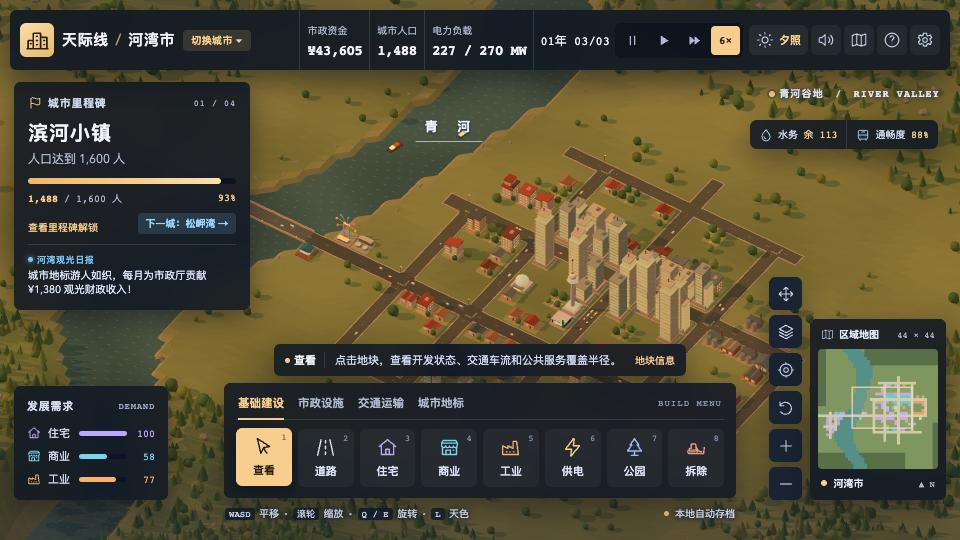
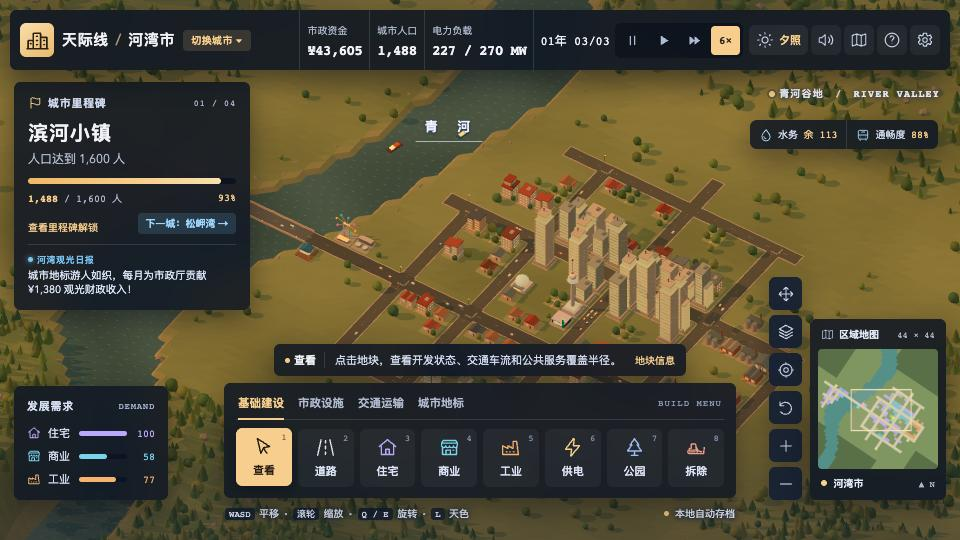
Publish 天际线 · 河湾市 to game wall

Changed region(s): [[0.8438, 0.6222, 1.0, 0.8889]]

diff --git a/riverbend-skyline/index.html b/riverbend-skyline/index.html
@@ -5956,7 +5956,7 @@ function createView(canvas) {
     rotate(delta) { angle+=delta; cameraUpdate(); },
     reset() { angle=angleHome; zoom=1; target.set(4,0,-1); cameraUpdate(); },
     center(i,j) { target.set(world(i),0,world(j)); cameraUpdate(); },
-    get focus() { return {i:grid(target.x),j:grid(target.z),angle,zoom}; },
+    get focus() { return {i:grid(target.x),j:grid(target.z),fx:target.x/TILE,fz:target.z/TILE,angle,zoom}; },
   };
 }
 
@@ -6039,8 +6039,10 @@ const speeds=[0,1,3,6];
 const labels=[...$('districts').children];
 const map=$('minimap');
 const mapContext=map.getContext('2d');
+const MAP_PAD=12;
+const MAP_SPAN=SIZE+MAP_PAD*2;
 const mapBase=document.createElement('canvas');
-mapBase.width=map.width; mapBase.height=map.height;
+mapBase.width=Math.round(map.width*MAP_SPAN/SIZE); mapBase.height=Math.round(map.height*MAP_SPAN/SIZE);
 const mapBaseContext=mapBase.getContext('2d');
 const dialog=$('dialog');
 const toolButtons=$('tools');
@@ -6212,8 +6214,9 @@ if ($('chirper')) {
 
 function drawMapBase() {
   const stepX=map.width/SIZE, stepY=map.height/SIZE;
-  for(let j=0;j<SIZE;j++) for(let i=0;i<SIZE;i++) {
-    const id=idAt(i,j), tile=city.tiles[id];
+  for(let j=-MAP_PAD;j<SIZE+MAP_PAD;j++) for(let i=-MAP_PAD;i<SIZE+MAP_PAD;i++) {
+    const inGrid=i>=0&&i<SIZE&&j>=0&&j<SIZE;
+    const id=inGrid?idAt(i,j):-1, tile=inGrid?city.tiles[id]:null;
     const ground=landKind(i,j,city.map);
     let fill=ground==='water'?'#548f88':ground==='hill'?'#586f48':'#7f9661';
     if (tile?.type==='road') {
@@ -6230,22 +6233,30 @@ function drawMapBase() {
         :stats.coverage[layer]?.has(id);
       fill=cover===undefined?zonePaint[tile.type]:coverageColor(cover);
     }
+    const px=(i+MAP_PAD)*stepX, py=(j+MAP_PAD)*stepY;
     mapBaseContext.fillStyle=fill;
-    mapBaseContext.fillRect(Math.floor(i*stepX),Math.floor(j*stepY),Math.ceil((i+1)*stepX)-Math.floor(i*stepX),Math.ceil((j+1)*stepY)-Math.floor(j*stepY));
+    mapBaseContext.fillRect(Math.floor(px),Math.floor(py),Math.ceil(px+stepX)-Math.floor(px),Math.ceil(py+stepY)-Math.floor(py));
   }
   mapKey='';
 }
 
 function drawMap() {
-  const {i,j,angle,zoom}=view.focus;
-  const key=[i,j,angle,zoom].join(',');
+  const {fx=0,fz=0,angle,zoom}=view.focus;
+  const key=[fx.toFixed(2),fz.toFixed(2),angle.toFixed(3),zoom.toFixed(2)].join(',');
   if(key===mapKey) return;
   mapKey=key;
-  mapContext.drawImage(mapBase,0,0);
   mapContext.save();
-  mapContext.translate((i+.5)/SIZE*map.width,(j+.5)/SIZE*map.height);
+  mapContext.translate(map.width/2,map.height/2);
+  mapContext.rotate(angle);
+  mapContext.drawImage(mapBase,-mapBase.width/2,-mapBase.height/2);
+  mapContext.restore();
+
+  const sx=(fx*Math.cos(angle)-fz*Math.sin(angle))*(map.width/SIZE);
+  const sy=(fx*Math.sin(angle)+fz*Math.cos(angle))*(map.height/SIZE);
+  mapContext.save();
+  mapContext.translate(map.width/2+sx,map.height/2+sy);
   const w=44/zoom, h=30/zoom;
-  mapContext.fillStyle='rgba(248, 223, 181, 0.12)';
+  mapContext.fillStyle='rgba(248, 223, 181, 0.14)';
   mapContext.fillRect(-w,-h,w*2,h*2);
   mapContext.strokeStyle='#f8dfb5';
   mapContext.lineWidth=1.5;
@@ -6487,7 +6498,12 @@ canvas.addEventListener('wheel',e=>{
 
 map.addEventListener('click',e=>{
   const box=map.getBoundingClientRect();
-  view.center(Math.floor((e.clientX-box.left)/box.width*SIZE),Math.floor((e.clientY-box.top)/box.height*SIZE));
+  const sx=((e.clientX-box.left)/box.width-.5)*SIZE;
+  const sy=((e.clientY-box.top)/box.height-.5)*SIZE;
+  const {angle}=view.focus;
+  const fx=sx*Math.cos(angle)+sy*Math.sin(angle);
+  const fz=-sx*Math.sin(angle)+sy*Math.cos(angle);
+  view.center(Math.floor(fx+SIZE/2),Math.floor(fz+SIZE/2));
 });
 map.addEventListener('keydown',e=>{
   if(e.key==='Enter' || e.key===' ') { e.preventDefault(); view.reset(); }
